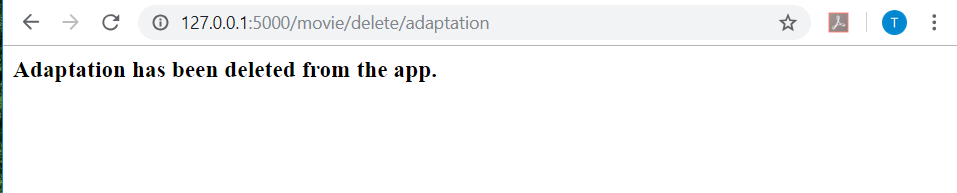
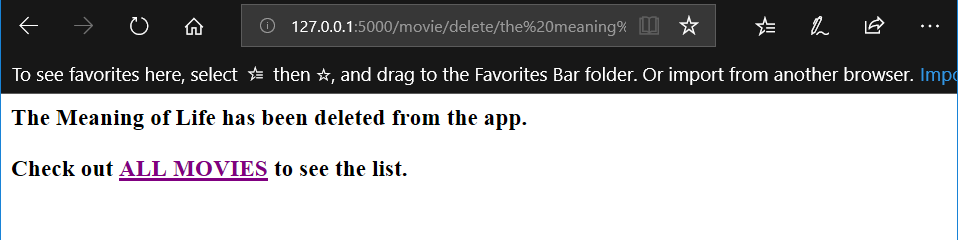
Updated Deleted Screenshot

diff --git a/README.md b/README.md
@@ -27,8 +27,8 @@ description of a movie, get suggestions for similar films, or see a donut chart 
 7.  <http://localhost:5000/movie/all> is described below under the `/movie/all` route.
 ![All Movies](https://github.com/torchontf/SI507_FinalProject_torchont/blob/master/Photos/AllMovies.PNG
 )
-8.  <http://localhost:5000/movie/delete/&lt;title>> is described below under the `/movie/delete/&lt;title>` route. A reasonable URL to access this route is <http://localhost:5000/movie/delete/adaptation>
-![Adaptation Deleted](https://github.com/torchontf/SI507_FinalProject_torchont/blob/master/Photos/Delete.PNG)
+8.  <http://localhost:5000/movie/delete/&lt;title>> is described below under the `/movie/delete/&lt;title>` route. A reasonable URL to access this route is <http://localhost:5000/movie/delete/the%20meaning%20of%20life>
+![The Meaning of Life Deleted](https://github.com/torchontf/SI507_FinalProject_torchont/blob/master/Photos/Delete.PNG)
 
 ## Routes in this application
 -  `/home` -> this is the home page. It tells the user the number of movies in the app.
